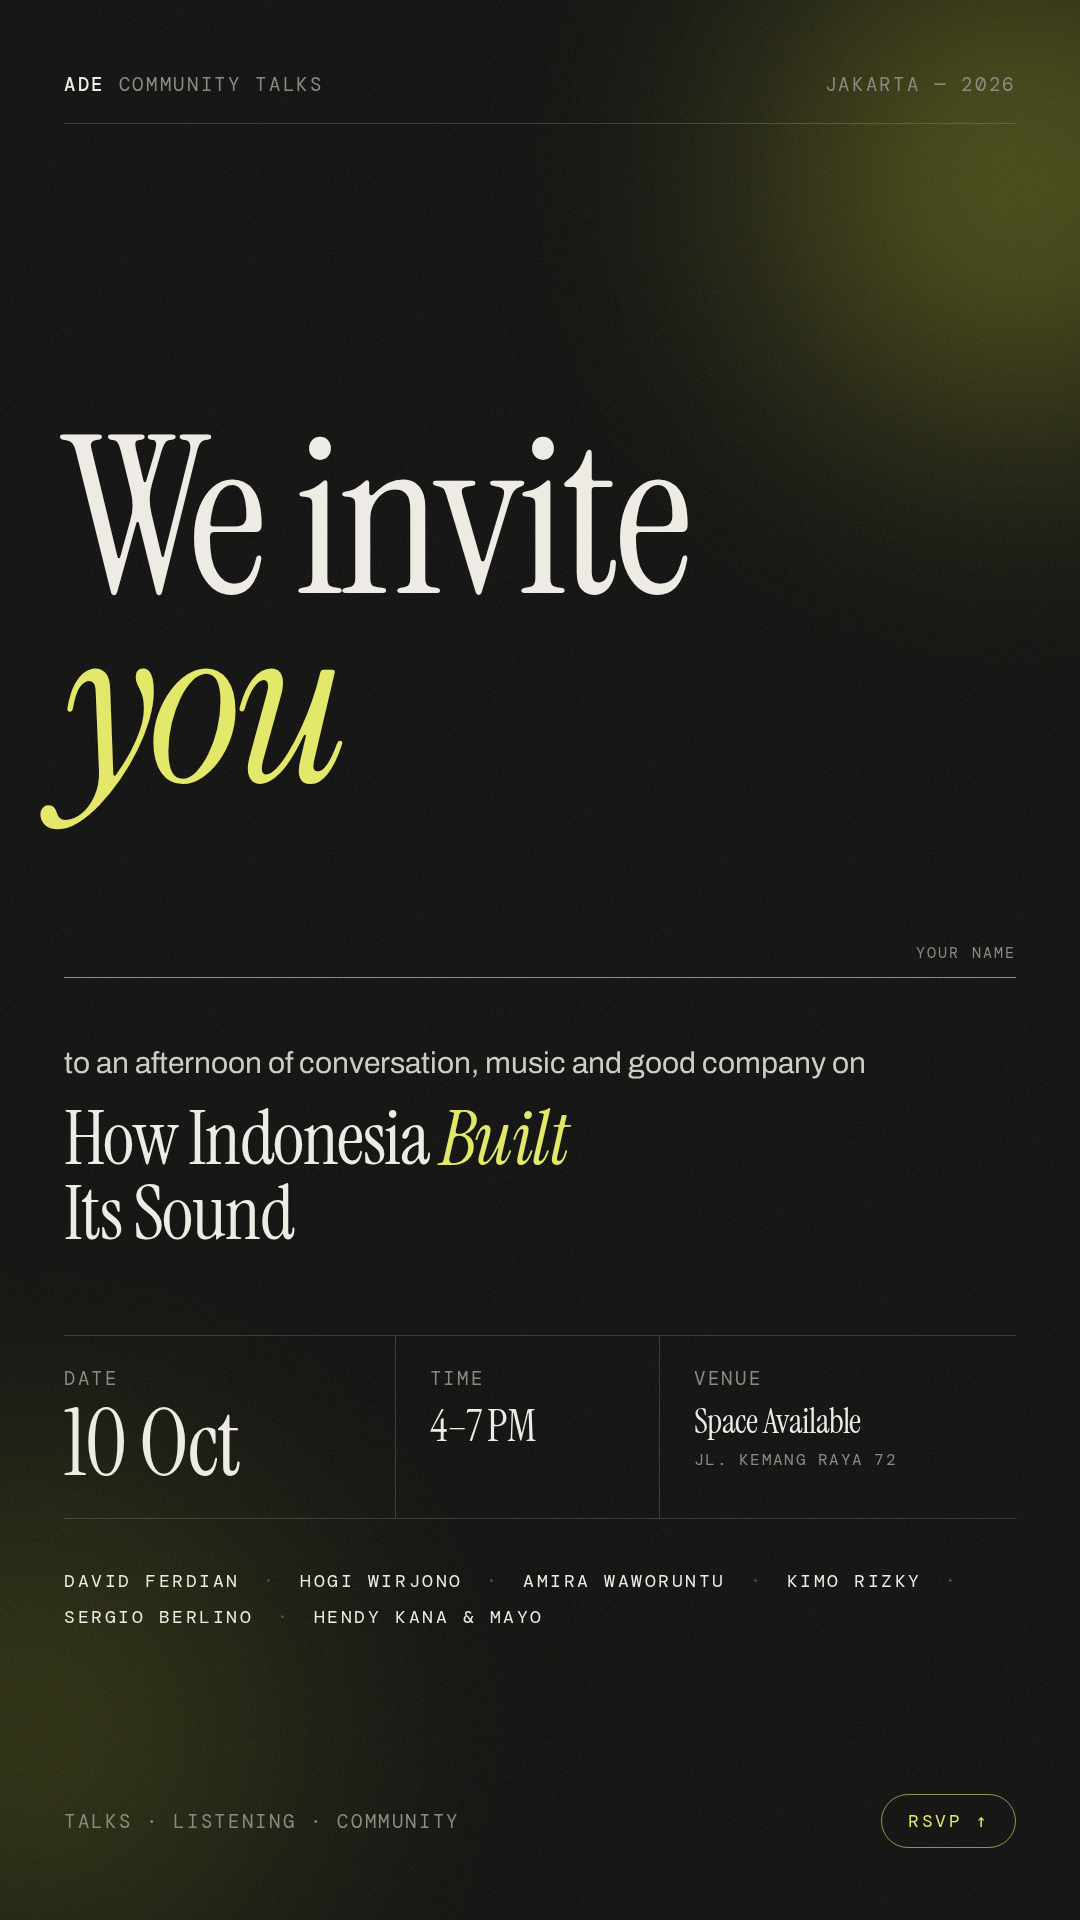
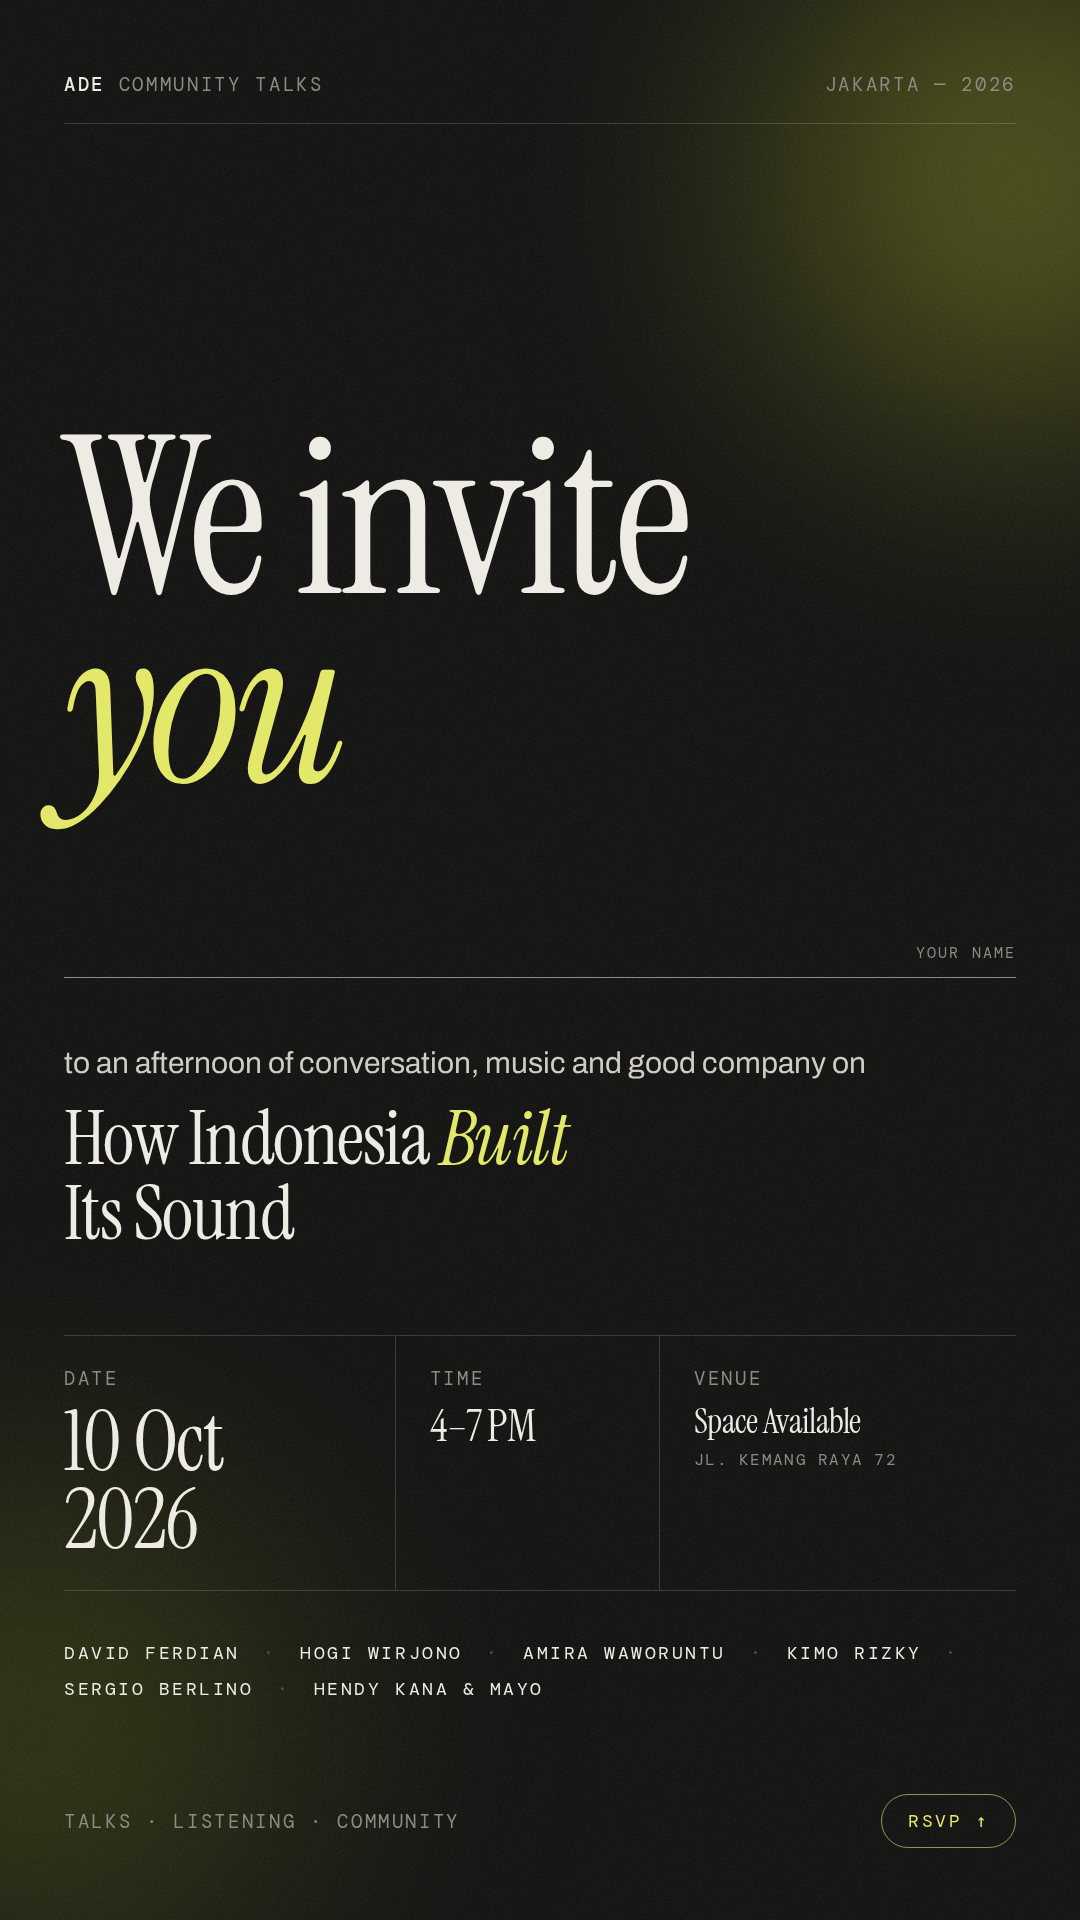
ADE flyer: show date as 10 Oct 2026
Claude-Session: https://claude.ai/code/session_01Sc5gF2HRFqjLpMQDrx7aqZ

diff --git a/events/ade-community-talks-2026/00-invite.html b/events/ade-community-talks-2026/00-invite.html
@@ -30,7 +30,7 @@ body { position: relative; font-family: 'Archivo', sans-serif; }
 .facts > div { padding: 30px 0 32px 0; }
 .facts > div + div { padding-left: 34px; border-left: 1px solid var(--line); }
 .facts .v { margin-top: 12px; }
-.date { font-size: 92px; line-height: .9; }
+.date { font-size: 84px; line-height: .92; }
 .time { font-size: 44px; line-height: 1.05; }
 .venue { font-size: 34px; line-height: 1.1; }
 .venue small { display: block; font-family: 'DM Mono', monospace; font-size: 16px; letter-spacing: .08em; color: var(--mute); margin-top: 10px; }
@@ -53,7 +53,7 @@ body { position: relative; font-family: 'Archivo', sans-serif; }
   <div class="serif title">How Indonesia <em>Built</em><br>Its Sound</div>
 
   <div class="facts">
-    <div><div class="mono">Date</div><div class="v serif date">10 Oct</div></div>
+    <div><div class="mono">Date</div><div class="v serif date">10 Oct<br>2026</div></div>
     <div><div class="mono">Time</div><div class="v serif time">4–7 PM</div></div>
     <div><div class="mono">Venue</div><div class="v serif venue">Space Available<small>JL. KEMANG RAYA 72</small></div></div>
   </div>

diff --git a/events/ade-community-talks-2026/01-lineup-nologo.html b/events/ade-community-talks-2026/01-lineup-nologo.html
@@ -16,7 +16,7 @@
   <div class="formats" style="margin-top:40px"><span>PANEL DISCUSSION</span><i></i><span>NETWORKING</span><i></i><span>LISTENING SESSION</span></div>
 
   <div class="info" style="margin-top:42px">
-    <div class="date">10 OCT</div>
+    <div class="date">10 OCT<br>2026</div>
     <div class="vr"></div>
     <div>
       <div class="when">16:00 — 19:00 WIB<br>SPACE AVAILABLE JAKARTA</div>

diff --git a/events/ade-community-talks-2026/01-lineup.html b/events/ade-community-talks-2026/01-lineup.html
@@ -16,7 +16,7 @@
   <div class="formats" style="margin-top:40px"><span>PANEL DISCUSSION</span><i></i><span>NETWORKING</span><i></i><span>LISTENING SESSION</span></div>
 
   <div class="info" style="margin-top:42px">
-    <div class="date">10 OCT</div>
+    <div class="date">10 OCT<br>2026</div>
     <div class="vr"></div>
     <div>
       <div class="when">16:00 — 19:00 WIB<br>SPACE AVAILABLE JAKARTA</div>
